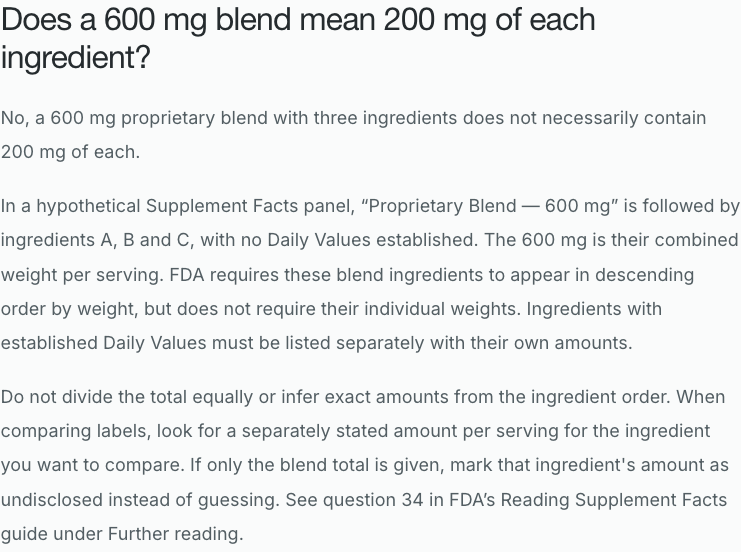
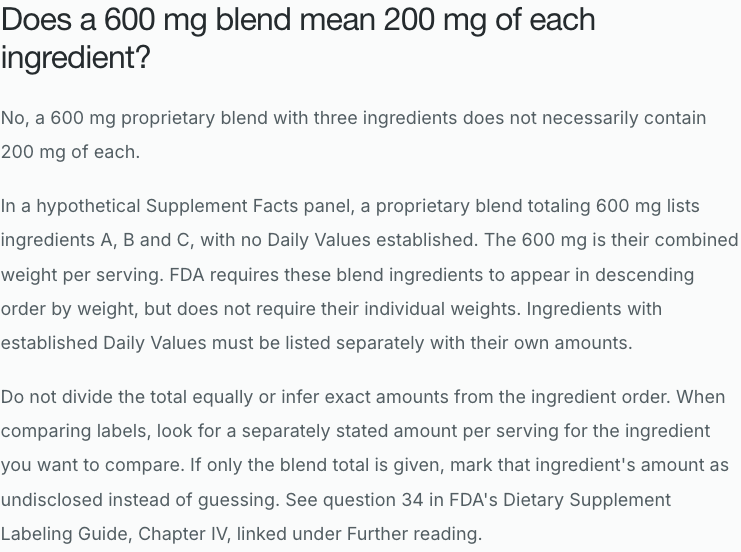
Polish label guide typography and FDA source pointer

Changed region(s): [[0.4966, 0.3388, 1.0, 0.4004], [0.0, 0.9547, 0.6518, 0.9855], [0.6518, 0.8931, 0.9933, 0.9239]]

diff --git a/lib/journal.ts b/lib/journal.ts
@@ -35,8 +35,8 @@ export const journalArticles:JournalArticle[]=[
         "heading": "Does a 600 mg blend mean 200 mg of each ingredient?",
         "paragraphs": [
           "No, a 600 mg proprietary blend with three ingredients does not necessarily contain 200 mg of each.",
-          "In a hypothetical Supplement Facts panel, “Proprietary Blend — 600 mg” is followed by ingredients A, B and C, with no Daily Values established. The 600 mg is their combined weight per serving. FDA requires these blend ingredients to appear in descending order by weight, but does not require their individual weights. Ingredients with established Daily Values must be listed separately with their own amounts.",
-          "Do not divide the total equally or infer exact amounts from the ingredient order. When comparing labels, look for a separately stated amount per serving for the ingredient you want to compare. If only the blend total is given, mark that ingredient's amount as undisclosed instead of guessing. See question 34 in FDA’s Reading Supplement Facts guide under Further reading."
+          "In a hypothetical Supplement Facts panel, a proprietary blend totaling 600 mg lists ingredients A, B and C, with no Daily Values established. The 600 mg is their combined weight per serving. FDA requires these blend ingredients to appear in descending order by weight, but does not require their individual weights. Ingredients with established Daily Values must be listed separately with their own amounts.",
+          "Do not divide the total equally or infer exact amounts from the ingredient order. When comparing labels, look for a separately stated amount per serving for the ingredient you want to compare. If only the blend total is given, mark that ingredient's amount as undisclosed instead of guessing. See question 34 in FDA's Dietary Supplement Labeling Guide, Chapter IV, linked under Further reading."
         ]
       },
       {
